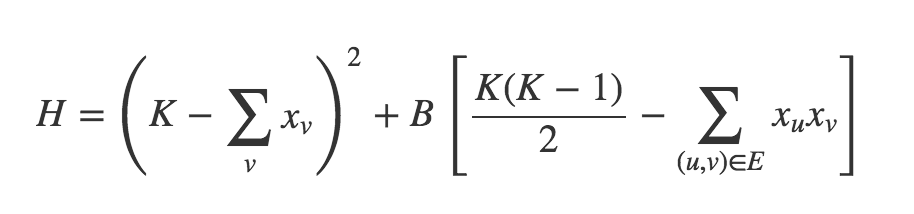
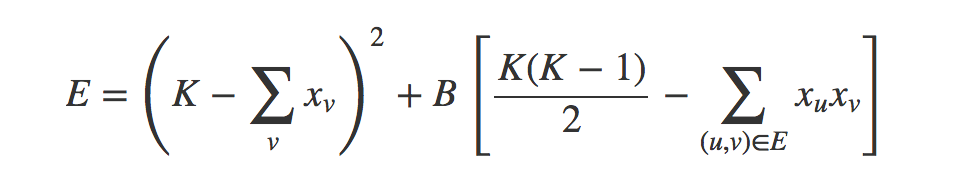
update network function and tutorial

Changed region(s): [[0.0306, 0.125, 0.9497, 0.8438], [0.337, 0.6875, 0.3676, 0.8125], [0.2451, 0.7188, 0.3063, 0.8125]]

diff --git a/setup.py b/setup.py
@@ -2,7 +2,7 @@ from setuptools import setup, find_packages
 from codecs import open
 from os import path
 
-__version__ = '0.5.3'
+__version__ = '0.5.4'
 
 here = path.abspath(path.dirname(__file__))
 

diff --git a/README.md b/README.md
@@ -4,7 +4,7 @@ Python Framework for QUBO
 
 Version
 --------
-0.5.3
+0.5.4
 
 Install
 --------------------
